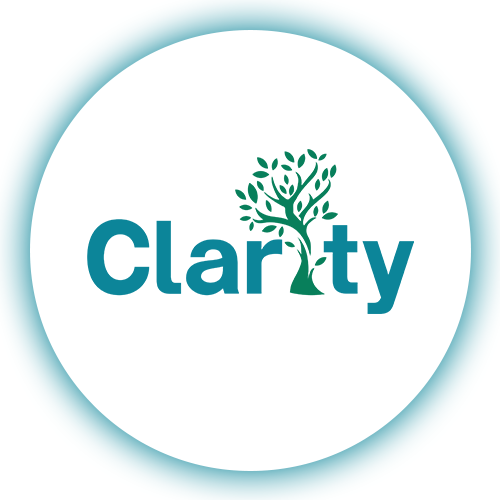
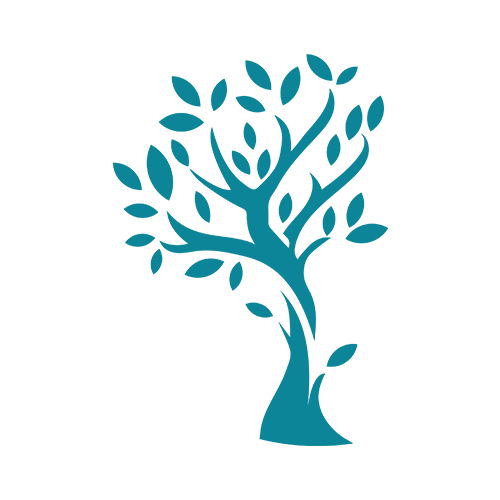
new changes

Changed region(s): [[0.0, 0.0, 0.99, 0.99]]

diff --git a/layouts/_default/home.html b/layouts/_default/home.html
@@ -12,12 +12,15 @@
       <div class="container">
         <div class="row justify-content-center text-center">
           <div class="col-lg-9 d-flex flex-column justify-content-center">
+            <div class="d-flex justify-content-center">
+              <img src="/assets/img/logo-2.png" alt="img" class="img-fluid-2" />
+            </div>
             <h1>
-              We’re glad you’re here!” <br />
+              Growth and understanding <br />
               with clarity and compassion...
             </h1>
             <br />
-            <p class="d-none">
+            <p>
               We're glad you're here! We understand that seeking support for
               your mental well-being is a significant step, and we are here to
               provide you with compassionate and professional care.
@@ -28,14 +31,14 @@
                   href="/about-us"
                   class="btn-get-started scrollto d-inline-flex align-items-center justify-content-center align-self-center"
                 >
-                  <span>Evidence-based therapies</span>
+                  <span>About Us</span>
                   <i class="bi bi-arrow-right"></i>
                 </a>
                 <a
                   href="/services/"
                   class="btn-get-started scrollto d-inline-flex align-items-center justify-content-center align-self-center"
                 >
-                  <span>Comprehensive psychological assessments</span>
+                  <span>Our Services</span>
                   <i class="bi bi-arrow-right"></i>
                 </a>
               </div>
@@ -53,15 +56,16 @@
           <div class="row gx-0 align-items-stretch">
             <div class="col-lg-6 d-flex align-items-stretch">
               <div class="content">
-                <h3>Growth and understanding</h3>
+                <h3>We’re glad you’re here!”</h3>
                 <p>
-                  We're glad you're here! We understand that seeking support for
-                  your mental well-being is a significant step, and we are here
-                  to provide you with compassionate and professional care. With
-                  a deep commitment to your overall wellness, Clarity
-                  Psychological Services offers a range of evidence-based
-                  therapies and comprehensive psychological assessments tailored
-                  to your unique needs.
+                  With a deep commitment to your overall wellness, Clarity
+                  Psychological Services offers a range of
+                  <a href="/services/treatment/">evidence-based therapies</a>
+                  and
+                  <a href="/services/assessment/"
+                    >comprehensive psychological assessments</a
+                  >
+                  tailored to your unique needs.
                 </p>
                 <p>
                   We are dedicated to creating a safe and nurturing environment

diff --git a/layouts/_default/assessment.html b/layouts/_default/assessment.html
@@ -23,7 +23,7 @@
       <!-- End Breadcrumbs -->
 
       <!-- ======= About Section ======= -->
-      <section class="about2">
+      <section class="about2 pb-0">
         <div class="container">
           <div class="row content">
             <div class="col-lg-6">
@@ -72,8 +72,6 @@
                   </li>
                 </ul>
 
-                <br /><br />
-
                 <a href="#contact">Contact us</a> to schedule an initial
                 consultation. We accept self-directed referrals as well as
                 referrals from physicians, lawyers, and family members.
@@ -106,12 +104,12 @@
                 determine if you meet diagnostic criteria for a specific
                 learning disorder, attention deficit/hyperactivity disorder, or
                 other mental health condition. Formal assessments are sometimes
-                required to access to services and/or specialized resources that
-                require a formal diagnostic assessment by a psychologist or
-                physician. Some people require a psychological assessment to
-                support accommodations at work or school. Evidence-based
-                recommendations for treatment and self-guided strategies for
-                symptom management are also provided.
+                required to access community services and/or specialized
+                resources that require a formal diagnostic assessment by a
+                psychologist or physician. Some people require a psychological
+                assessment to support accommodations at work or school.
+                Evidence-based recommendations for treatment and self-guided
+                strategies for symptom management are also provided.
               </p>
               <img src="/assets/img/hero-img.png" class="img-fluid" alt="" />
             </div>

diff --git a/layouts/_default/services.html b/layouts/_default/services.html
@@ -66,14 +66,14 @@
                 >Public speaking and mental wellness</a
               >
               workshop services – Interested in promoting mental health and
-              wellness for employees, volunteers, or the general public at your
-              workplace, organization, or for clients to associate mental
-              wellness with your corporate brand identity? Dr. Blasberg is an
-              experienced public speaker and clinical educator who will work
-              with you to design a custom educational program that meets your
-              needs. From hour-long seminars on stress management and burnout
-              awareness and avoidance, to full-day mental health skills and
-              development workshops and corporate retreats. Contact us today to
+              wellness for employees, volunteers, for employees or volunteers in
+              your organization, or for your clients to connect mental wellness
+              to your corporate brand ? Dr. Blasberg is an experienced public
+              speaker and clinical educator who will work with you to design a
+              custom educational program that meets your needs. From hour-long
+              seminars on stress management and burnout awareness and avoidance,
+              to full-day mental health skills and development workshops and
+              corporate retreats. <a href="/contact-us">Contact us</a> today to
               see how we can help meet your speaking and presentation needs.
             </div>
             <div class="col-lg-6 pt-4 pt-lg-0">

diff --git a/static/assets/css/style.css b/static/assets/css/style.css
@@ -176,7 +176,7 @@ section {
   align-items: center;
 }
 .header .logo img {
-  width: 90px;
+  width: 100px;
 }
 /*--------------------------------------------------------------
 # Navigation Menu
@@ -392,6 +392,9 @@ section {
 /*--------------------------------------------------------------
 # Hero Section
 --------------------------------------------------------------*/
+.hero .img-fluid-2 {
+  width: 200px;
+}
 .hero {
   width: 100%;
   height: 100vh;
@@ -491,6 +494,9 @@ section {
   margin: 15px 0 30px 0;
   line-height: 24px;
   color: rgb(228, 228, 228);
+}
+.about p a {
+  color: #087f5b;
 }
 .about .btn-read-more {
   line-height: 0;
@@ -670,7 +676,7 @@ section {
 .about2 .content h3 {
   font-weight: 500;
   line-height: 32px;
-  font-size: 24px;
+  font-size: 18px;
 }
 .about2 h4 {
   font-size: 20px !important;
@@ -703,6 +709,7 @@ section {
   display: flex;
   align-items: flex-start;
   gap: 1rem;
+  font-size: 18px;
 }
 .about2 .list li img {
   width: 30px;
